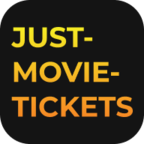
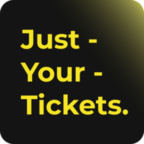
💄 메타데이터 업데이트 및 아이콘 설정 개선

diff --git a/app/layout.tsx b/app/layout.tsx
@@ -12,29 +12,89 @@ export const metadata: Metadata = {
     canonical: "/",
   },
   title: {
-    template: "%s | Just Your Tickets",
-    default: "Just Your Tickets",
+    template: "%s | Just Your Tickets.",
+    default: "Just Your Tickets.",
   },
   description: "Make a ticket for your own movie ticket.",
   keywords: ["movie", "ticket", "booking"],
   openGraph: {
-    title: "Just Your Tickets",
+    title: "Just Your Tickets.",
     description: "Make a ticket for your own movie ticket.",
     url: "/",
-    siteName: "Just Your Tickets",
+    siteName: "Just Your Tickets.",
     images: [
       {
         url: "/images/og-card.jpg",
         width: 1200,
         height: 630,
-        alt: "Just Your Tickets Preview",
+        alt: "Just Your Tickets.",
       },
     ],
   },
   icons: {
-    icon: "/images/favicon.ico",
+    apple: [
+      {
+        url: "/images/apple-icon-57x57.png",
+        sizes: "57x57",
+        type: "image/png",
+      },
+      {
+        url: "/images/apple-icon-60x60.png",
+        sizes: "60x60",
+        type: "image/png",
+      },
+      {
+        url: "/images/apple-icon-72x72.png",
+        sizes: "72x72",
+        type: "image/png",
+      },
+      {
+        url: "/images/apple-icon-76x76.png",
+        sizes: "76x76",
+        type: "image/png",
+      },
+      {
+        url: "/images/apple-icon-114x114.png",
+        sizes: "114x114",
+        type: "image/png",
+      },
+      {
+        url: "/images/apple-icon-120x120.png",
+        sizes: "120x120",
+        type: "image/png",
+      },
+      {
+        url: "/images/apple-icon-144x144.png",
+        sizes: "144x144",
+        type: "image/png",
+      },
+      {
+        url: "/images/apple-icon-152x152.png",
+        sizes: "152x152",
+        type: "image/png",
+      },
+      {
+        url: "/images/apple-icon-180x180.png",
+        sizes: "180x180",
+        type: "image/png",
+      },
+    ],
+    icon: [
+      { url: "/images/favicon-16x16.png", sizes: "16x16", type: "image/png" },
+      { url: "/images/favicon-32x32.png", sizes: "32x32", type: "image/png" },
+      { url: "/images/favicon-96x96.png", sizes: "96x96", type: "image/png" },
+      {
+        url: "/images/android-icon-192x192.png",
+        sizes: "192x192",
+        type: "image/png",
+      },
+    ],
     shortcut: "/images/favicon.ico",
-    apple: "/images/apple-icon.png",
+  },
+  manifest: "/manifest.json",
+  other: {
+    "msapplication-TileColor": "#ffffff",
+    "msapplication-TileImage": "/images/ms-icon-144x144.png",
   },
 };
 
